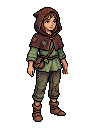
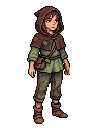
Portraits of one size, and the rest skip above the exploration
The generator drew the figures from 105 to 128 px tall, so a pair of one
class looked like an adult and a youngster. tools/normalize-portraits.py
scales each one without smoothing to 118 px, feet on one line. The
"Przewiń" for resting moves from above "Wyrusz" to the top of the
screen, labelled as the rest it shortens.

Claude-Session: https://claude.ai/code/session_01EFZUMqpHps3KDRogHBzjf3

Changed region(s): [[0.25, 0.0312, 0.75, 0.9688]]

diff --git a/src/client/screens/combat.js b/src/client/screens/combat.js
@@ -464,6 +464,7 @@ export function mountCombat(container, { params, navigate }) {
     return h(
       'div',
       { class: 'stack' },
+      restSkip(character),
       h(
         'article',
         { class: 'card area-card', 'aria-label': area.name },
@@ -482,18 +483,28 @@ export function mountCombat(container, { params, navigate }) {
         levelNote,
         durations,
         threatLine,
-        restSkip(character),
         start,
       ),
       h('p', { class: 'muted threat-note', text: 'Zagrożenie to szansa omdlenia na wyprawie.' }),
     );
   }
 
-  // Resting before the start can be skipped with Punkty Czasu.
+  // Resting before the start can be skipped with Punkty Czasu: at the top,
+  // by what it shortens, so it does not read as part of the exploration.
+  // Hidden once HP is full.
   function restSkip(character) {
     const left = (now) => ((character.maxHp - currentHp(state.character, now)) / Math.max(1e-9, restRate(state.character))) * 60000;
-    skipper = skipControl('rest', left, 'Odpoczynek');
-    return skipper.element;
+    const control = skipControl('rest', left, 'Odpoczynek');
+    const text = h('p', { class: 'rest-skip-text' });
+    const panel = h('div', { class: 'rest-skip', 'aria-live': 'off' }, text, control.element);
+    const update = (now = serverNow()) => {
+      control.update(now);
+      panel.hidden = control.element.hidden;
+      text.textContent = `Odpoczynek: pełne HP za ${formatMinutes(Math.max(1, Math.ceil(left(now) / 60000)))}.`;
+    };
+    update();
+    skipper = { element: panel, update };
+    return panel;
   }
 
   function tick(now) {

diff --git a/src/client/styles.css b/src/client/styles.css
@@ -2421,6 +2421,35 @@ a.segmented-option {
   font-size: 14px;
 }
 
+/* "Przewiń" for resting, above the exploration it is not part of. */
+.rest-skip {
+  display: flex;
+  flex-wrap: wrap;
+  align-items: center;
+  justify-content: space-between;
+  gap: 10px;
+  padding: 10px 12px;
+  border: 1px solid var(--line);
+  border-radius: 4px;
+  background: var(--bg-deep);
+}
+
+.rest-skip[hidden] {
+  display: none;
+}
+
+.rest-skip-text {
+  margin: 0;
+  color: var(--text-muted);
+  font-family: var(--font-system);
+  font-size: 14px;
+}
+
+.rest-skip .button--time {
+  width: auto;
+  flex: none;
+}
+
 .threat {
   margin: 0;
   font-family: var(--font-system);

diff --git a/tools/normalize-portraits.py b/tools/normalize-portraits.py
@@ -1,0 +1,32 @@
+# Brings the class portraits (96 × 128) to one size: the generator draws some
+# figures larger than others, so a woman and a man of a class looked like an
+# adult and a youngster side by side. Each figure is scaled without smoothing
+# to the same height, stands on the same line and is centred, so the busts in
+# fights and on the class cards show heads of about the same size. Running it
+# again changes nothing. Needs Python 3 and Pillow:
+#   python3 tools/normalize-portraits.py src/client/art/portraits/*.png
+import sys
+
+from PIL import Image
+
+WIDTH, HEIGHT = 96, 128
+FIGURE = 118  # the figure's height, from the top of the head to the feet
+FEET = 124  # the line the feet stand on
+
+
+def normalize(path):
+    image = Image.open(path).convert('RGBA')
+    assert image.size == (WIDTH, HEIGHT), f'{path}: {image.size}'
+    box = image.getchannel('A').point(lambda alpha: 255 if alpha > 16 else 0).getbbox()
+    figure = image.crop(box)
+    scale = FIGURE / figure.height
+    figure = figure.resize((max(1, round(figure.width * scale)), FIGURE), Image.NEAREST)
+    assert figure.width <= WIDTH, f'{path}: the figure is wider than the portrait'
+    canvas = Image.new('RGBA', (WIDTH, HEIGHT), (0, 0, 0, 0))
+    canvas.alpha_composite(figure, (WIDTH // 2 - figure.width // 2, FEET - FIGURE))
+    canvas.save(path, optimize=True)
+    return scale
+
+
+for path in sys.argv[1:]:
+    print(f'{path}: x{normalize(path):.3f}')

diff --git a/DECISIONS.md b/DECISIONS.md
@@ -972,3 +972,8 @@ Niedźwiedzi, Wilczy, Rysi i Kruka już nosiły nazwy potworów i zostają. Pię
 2. **Dawne portrety czekają na ewolucję.** Leżą w `art/evolution/portraits/`, a ich opisy są w rodzaju `portraits-evolved` w `art/prompts.json`. Gra pokaże je razem z ewolucjami klas, bo zmiana wizerunku ma być częścią ewolucji.
 3. **Opisy dla generatora.** W pierwszej próbie generator narysował kilka szkiców Maga i Wojownika w leśnej scenie albo przyciętych u góry. Opisy proszą teraz o postać na gładkim tle (`isolated figure on a plain background`), a Wojownik nie ma już szerokich barków, przez które wypełniał cały kadr. Szkice z poprawkami kosztowały 10,08 USD, a na koncie Retro Diffusion zostało 33,36 USD.
 4. **Wycinek w walce.** Postać zajmuje teraz mniejszą część obrazka, więc w polu 72×72 px na arenie widać głowę i tors mniejszej postaci niż dotąd. Ekran postaci pokazuje ją w całości jak wcześniej.
+5. **Postacie tej samej wielkości.** Autor zauważył, że wojowniczka zajmuje prawie całą ramkę, a wojownik obok niej wygląda na podrostka. Generator narysował postacie w różnej skali: od 105 do 128 px wysokości. `tools/normalize-portraits.py` skaluje teraz każdą postać bez wygładzania do 118 px, stawia ją stopami na tej samej linii i ustawia na środku. Popiersia w walce i na kartach klas pokazują dzięki temu głowy podobnej wielkości. Skalowanie bez wygładzania zostawia ostre piksele. Próbka z wygładzaniem i powrotem do kolorów obrazka rozmywała twarze.
+
+## Przewijanie odpoczynku nad wyprawą (25.10.2026)
+
+Autor: przycisk „Przewiń” stał na ekranie wyprawy tuż nad „Wyrusz”, choć przewija odpoczynek, a nie wyprawę, i to myliło. Stoi teraz na górze ekranu, w pasku „Odpoczynek: pełne HP za … min”, nad kartą miejsca, i znika, gdy HP jest pełne.
